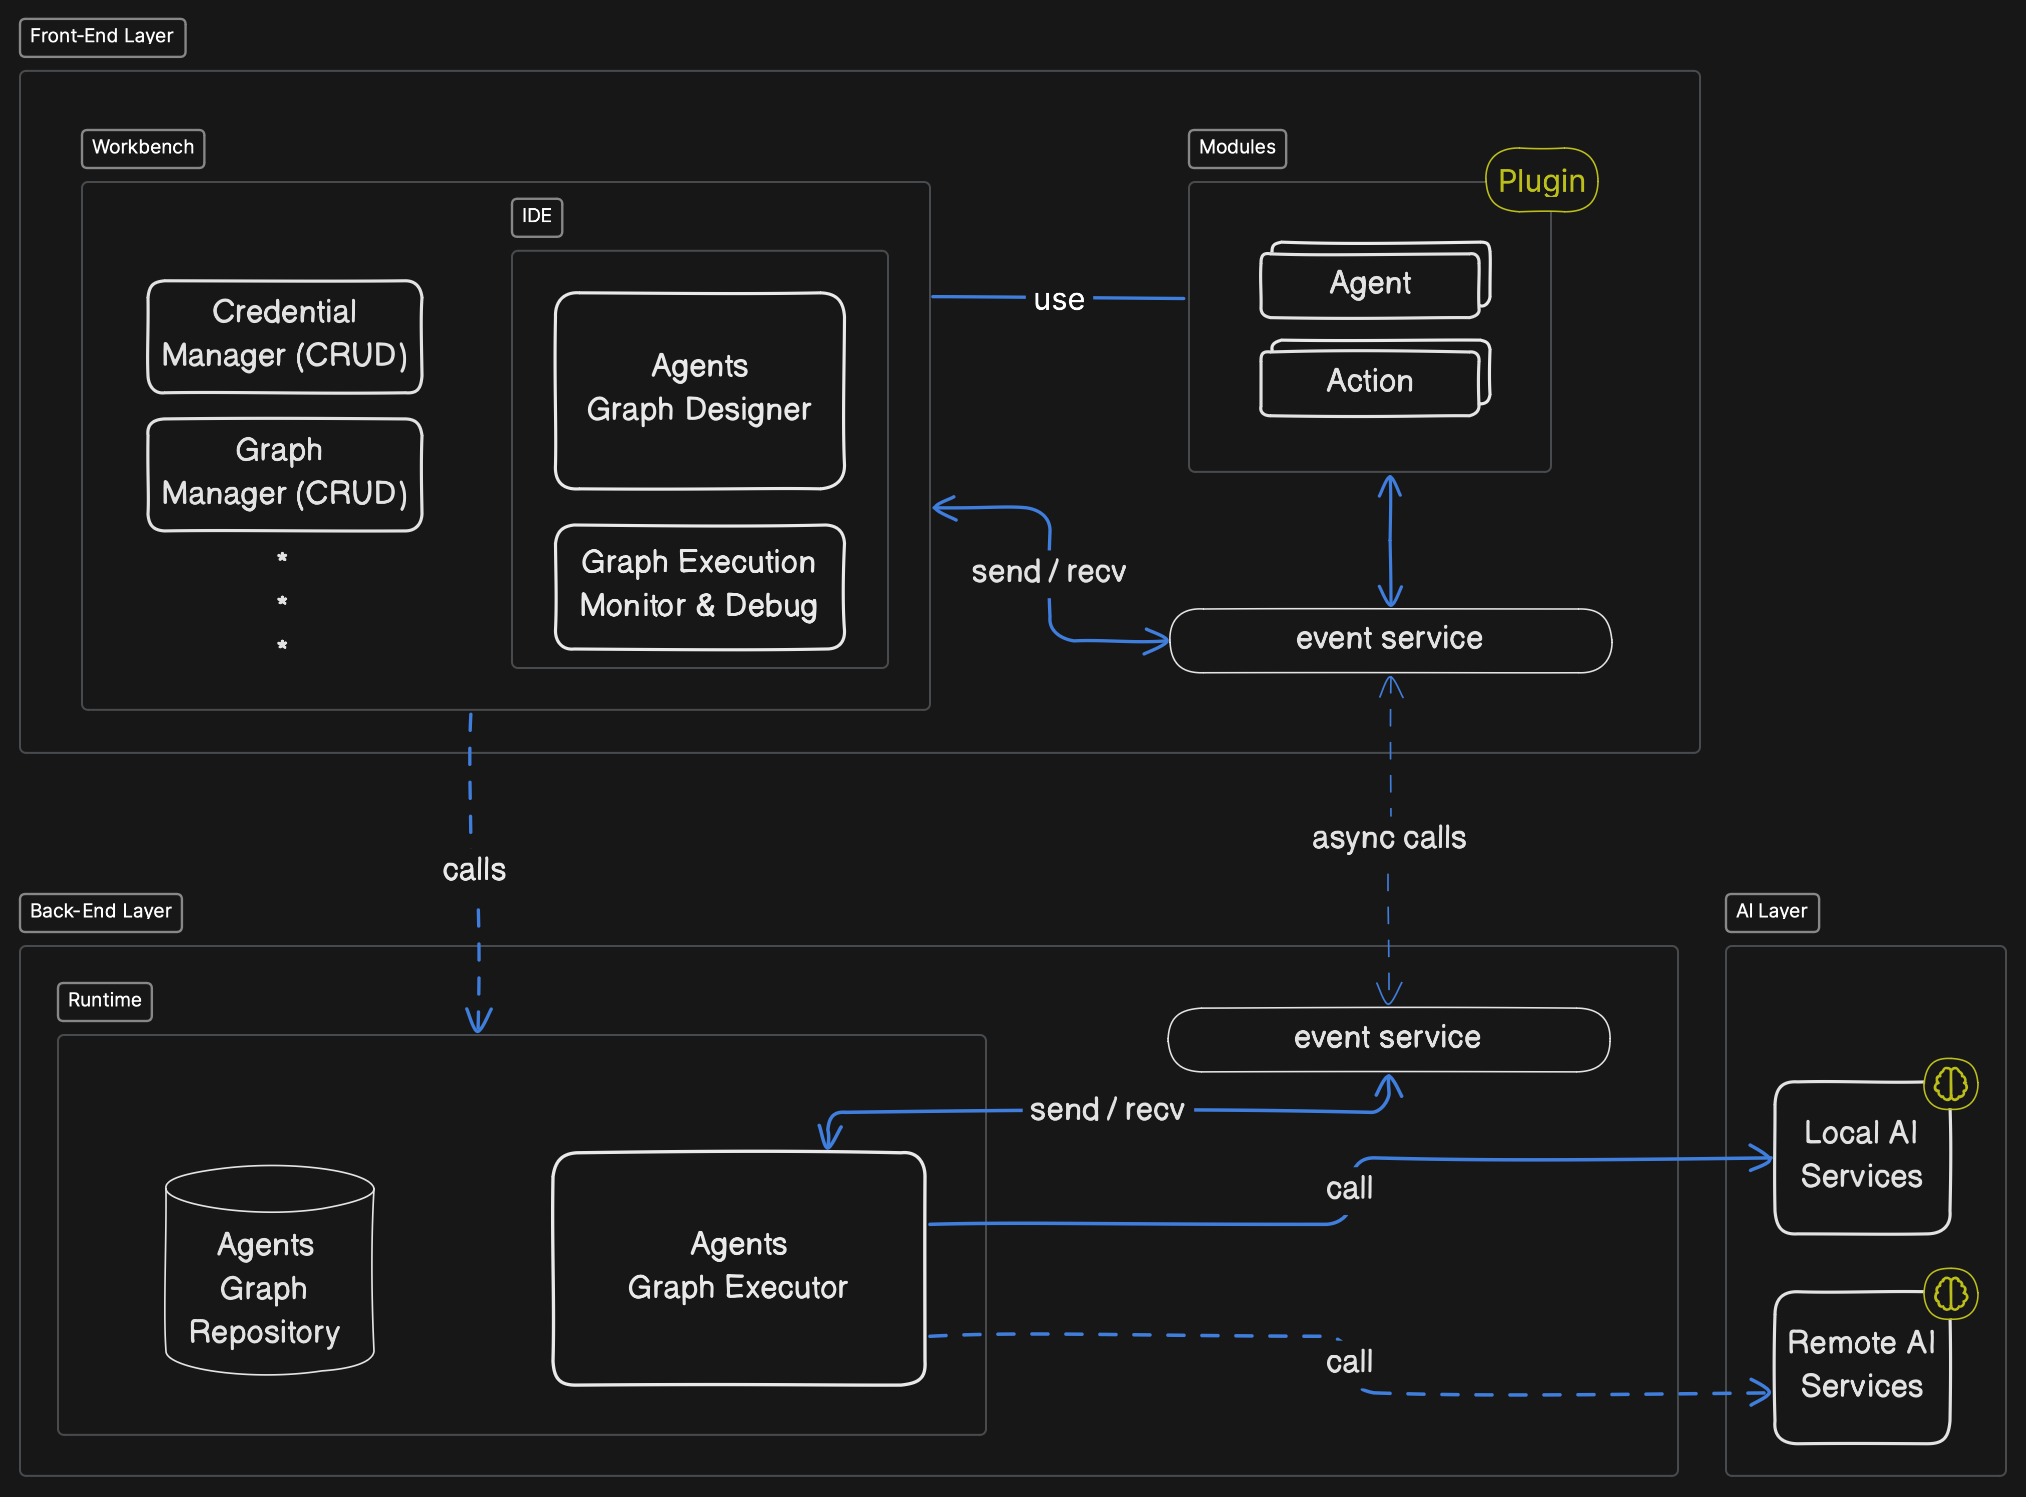
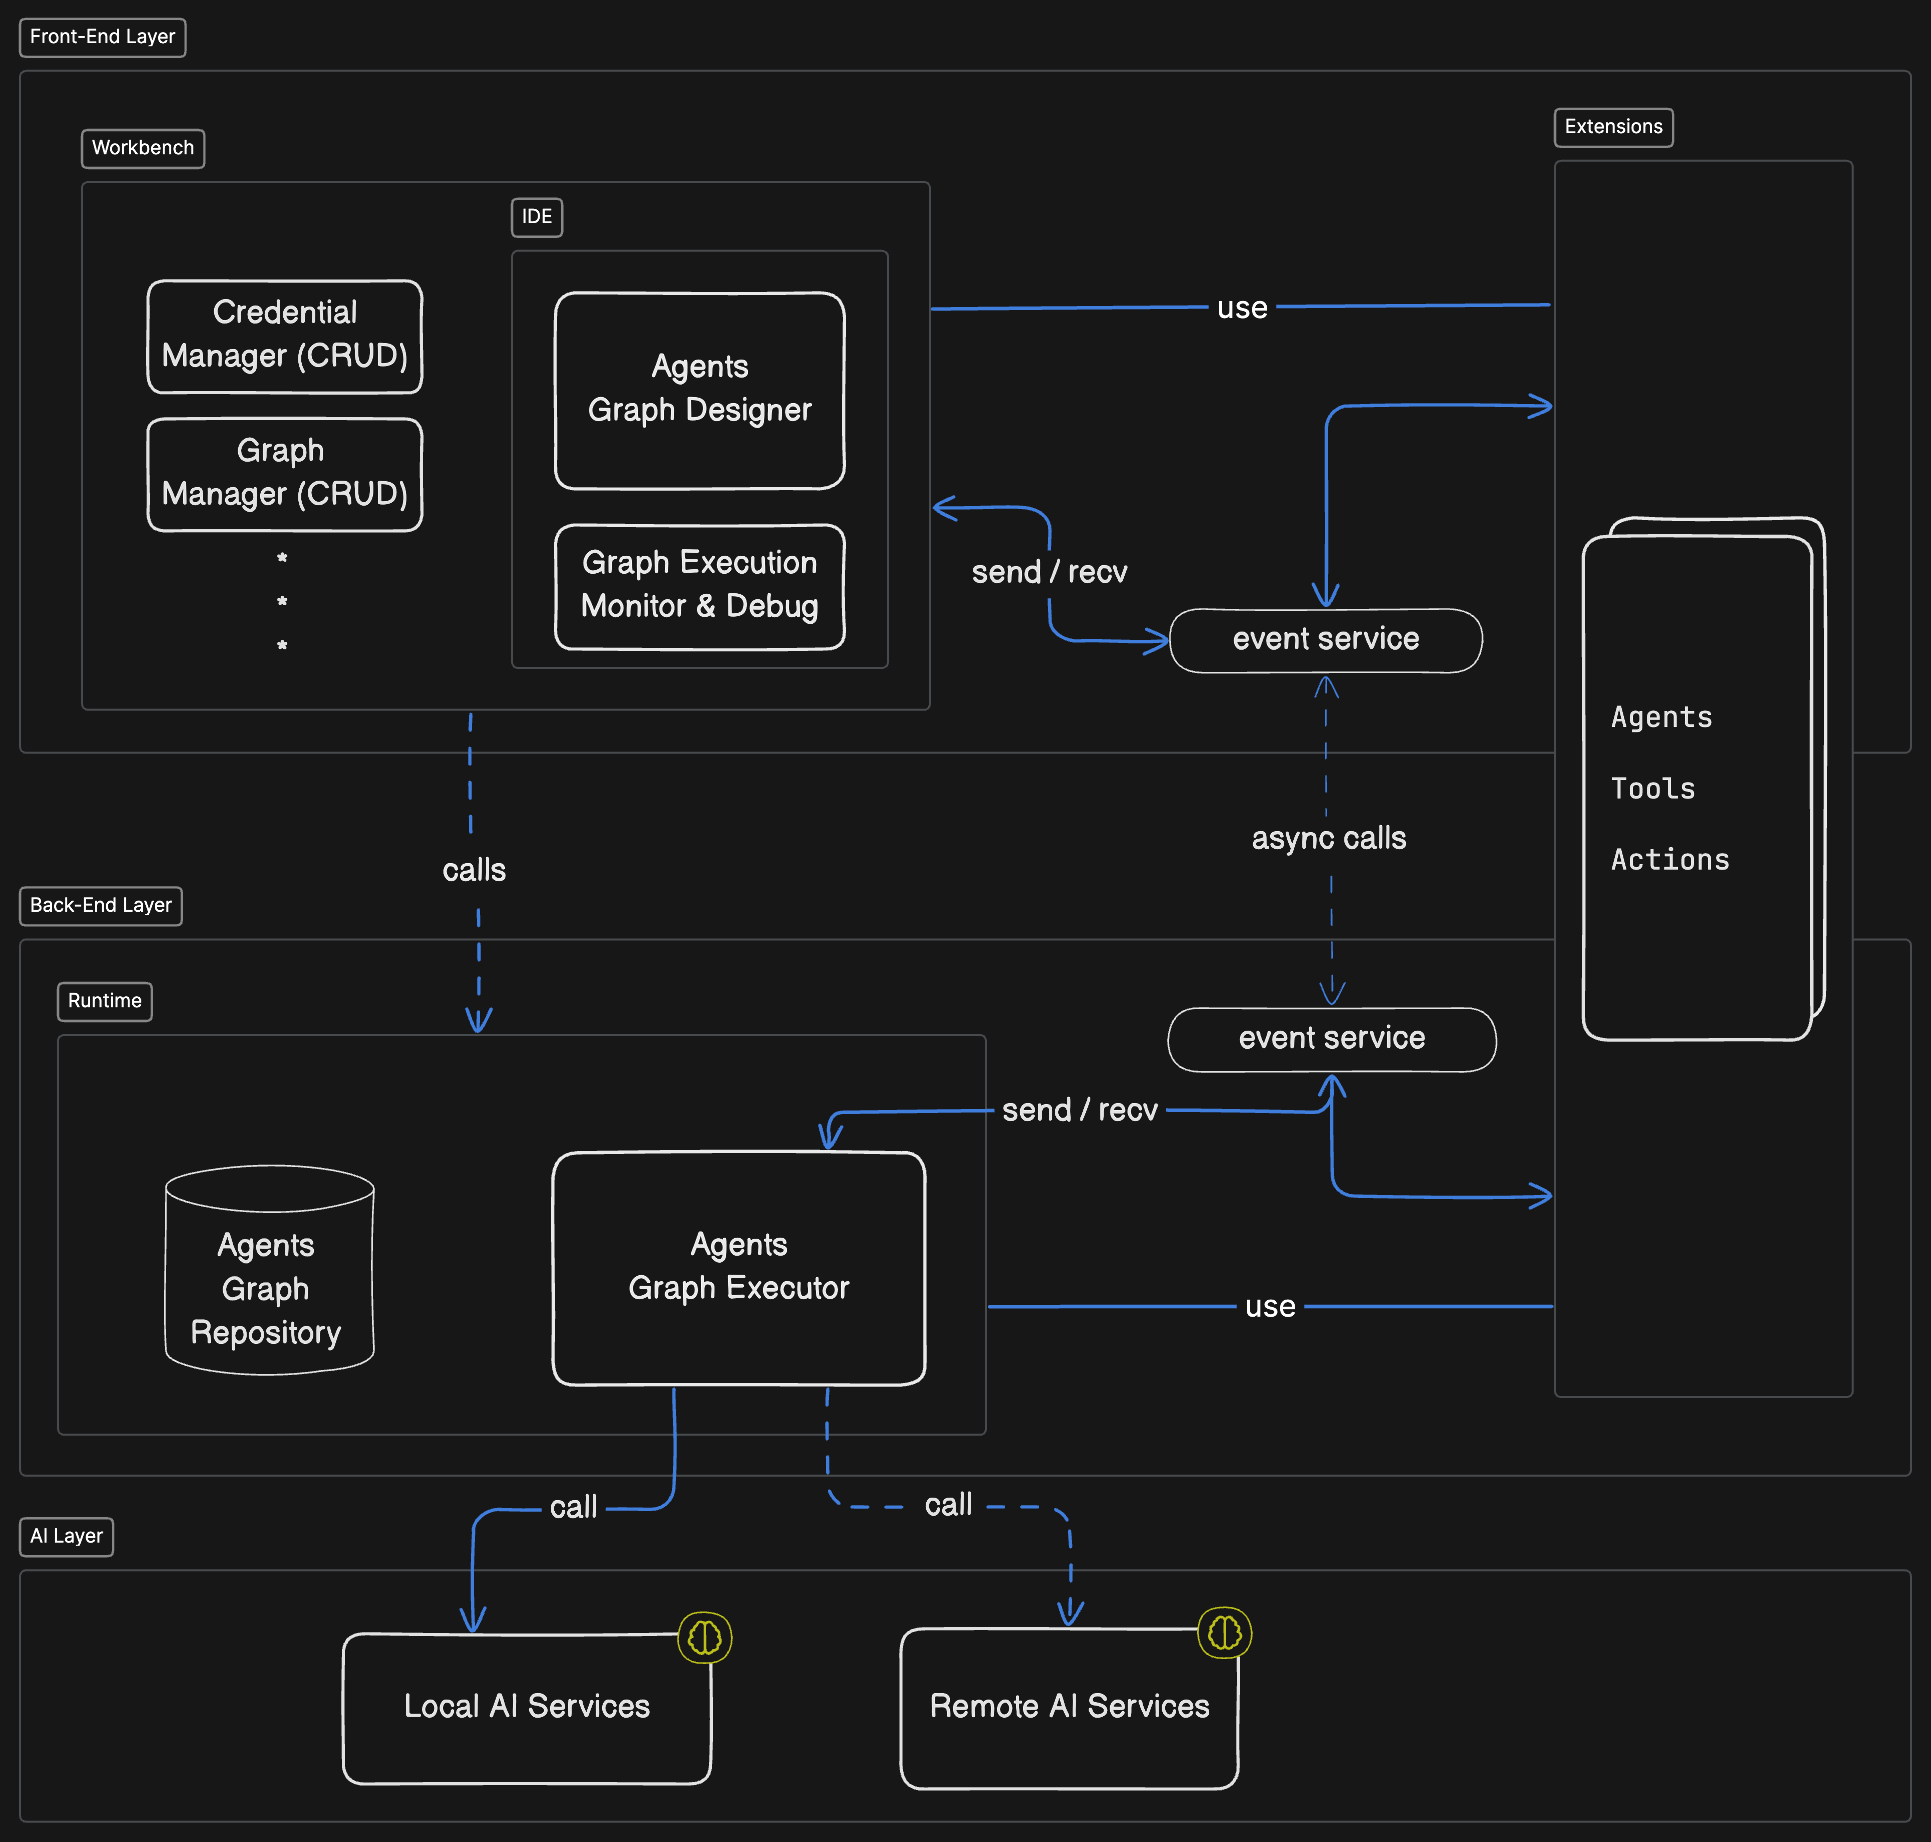
docs: update HLA

diff --git a/README.md b/README.md
@@ -1,40 +1,68 @@
-# visual-agent-studio
+# Visual-Agent-Studio
 
+# visual-agent-studio
 The low-code AI business platform, to be ready for AI challenges
 
 ## Agent Workflow in the context on Generative AI (GenAI)
-
 The term **agent workflow** in the context of Generative AI (GenAI) technology generally refers to the series of actions or processes that an AI agent follows to complete a given task. In more specific terms, it outlines the procedural steps an AI model or system takes from receiving input to producing an output. This concept is crucial in designing and implementing AI systems efficiently and effectively. 
 
 Below a breakdown of what an agent workflow might involve in the context of GenAI:
 
-1.	**Input Reception**: 
-    > The AI agent receives input, which could be text, images, data queries, or any other form of user-provided information.
-2.	**Data Processing**: 
-    > The input data is preprocessed for use in the AI model. This can involve cleaning the data, converting formats, or extracting relevant features needed for processing.
-3.	**Model Interaction (_function calling_)**: 
-    > The core of the agent’s workflow where the AI model reasoning over the input data. This stage involves the AI agent calling specific functions or methods that interface with the underlying AI models. These function calls can be to predefined libraries or custom functions that handle tasks such as processing the input, generating predictions, or retrieving data from external datasource. Each function performs a specific role and returns results for the next step.
-4.	**Decision Making**: 
-    > Based on the model’s processing, the AI agent makes decisions or generates responses. This can involve choosing between multiple outputs, generating new content, or performing actions within a controlled environment.
-5.	**Output Generation**: 
-    > The final step where the AI agent presents the results to the user. This could be in the form of text, images, decisions, or even actions taken in a digital or physical environment.
-6.	**Feedback Incorporation**: 
-    > In some workflows, especially those involving interactive or iterative processes, feedback from the output stage is used to refine or improve future responses.
-
-In AI-driven systems, especially those based on Generative AI, it is very important design the agent workflow to be robust and flexible, capable of handling complex tasks and adapting to varied inputs and environments. 
+1.  **Input Reception**:  The AI agent receives input, which could be text, images, data queries, or any other form of user-provided information. 
+2.  **Data Processing**:  The input data is preprocessed for use in the AI model. This can involve cleaning the data, converting formats, or extracting relevant features needed for processing. 
+3.  **Model Interaction (**_**function calling**_**)**:  The core of the agent’s workflow where the AI model reasoning over the input data. This stage involves the AI agent calling specific functions or methods that interface with the underlying AI models. These function calls can be to predefined libraries or custom functions that handle tasks such as processing the input, generating predictions, or retrieving data from external datasource. Each function performs a specific role and returns results for the next step. 
+4.  **Decision Making**:  Based on the model’s processing, the AI agent makes decisions or generates responses. This can involve choosing between multiple outputs, generating new content, or performing actions within a controlled environment. 
+5.  **Output Generation**:  The final step where the AI agent presents the results to the user. This could be in the form of text, images, decisions, or even actions taken in a digital or physical environment. 
+6.  **Feedback Incorporation**:  In some workflows, especially those involving interactive or iterative processes, feedback from the output stage is used to refine or improve future responses. 
+In AI-driven systems, especially those based on Generative AI, it is very important design the agent workflow to be robust and flexible, capable of handling complex tasks and adapting to varied inputs and environments.
 These workflows are fundamental in applications ranging from customer service bots and content creation tools to more complex systems like autonomous decision making and adaptive computing environments.
 
 ## Idea 💡
-
 The idea behind **Visual Studio Agent** is to provide a **Visual Integrated Development Environment (IDE)** that facilitates the creation of Complex Agent Workflows. **A key focus is on extendibility, enabling the possibility to create custom extensions to ensure flexibility and a future-proof Dev Environment**
- 
+
 ## High Level Architecture ⚡
 
-![HLA](high-level-architecture.png)
+
+## Front-End Layer
+_TO DO _
+
+### Workbench
+_TO DO _
+
+## Back-End Layer
+_TO DO _
+
+### Runtime
+_TO DO _
+
+## AI Layer
+_TO DO _
+
+## Extensions 
+Extension is one of the most important concept in the architecture. Each extension provides two components: 
+
+1. **Client Component ( UI )**
+> _Define how present the Node on the Workflow designer_
+
+1. **Server Component ( Service )**
+> _Define the task that will be executed when workflow engine trigger the Node_
+
+When an extension is plugged into application the Front-End Layer use the UI Component while the Back-End Layer the Service Component.
+
+Extensions unlock a world of endless possibilities, enabling the handling of various levels of complexity. They also allow for the determination of the granularity of such complexity, simply by implementing basic or more business-tailored extensions.
+
+Currently we have defined three type of extensions **Agent**, **Tool**, **Action**
+
+### Agents
+_TO DO _
+
+### Tools
+_TO DO _
+
+### Actions
+_TO DO _
 
 
-## Technology Stack
 
-
-
+ 
 
